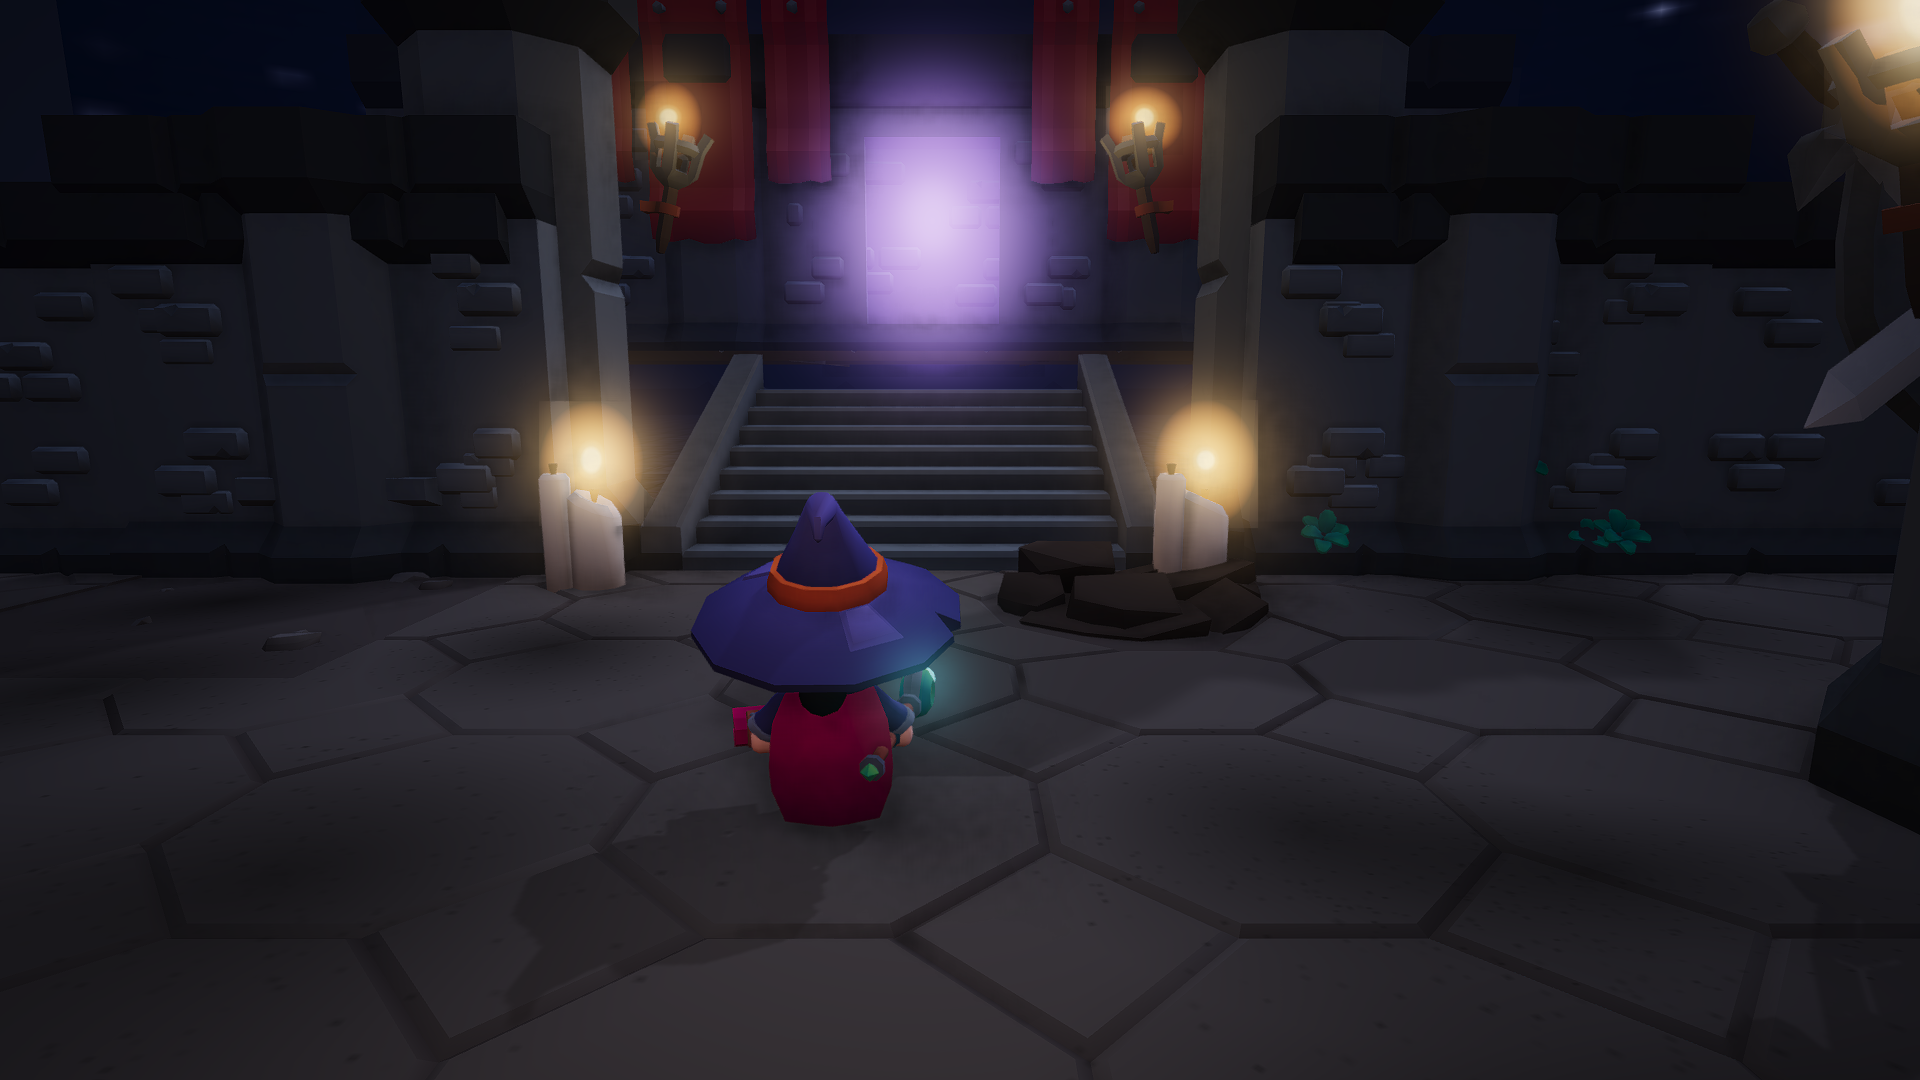
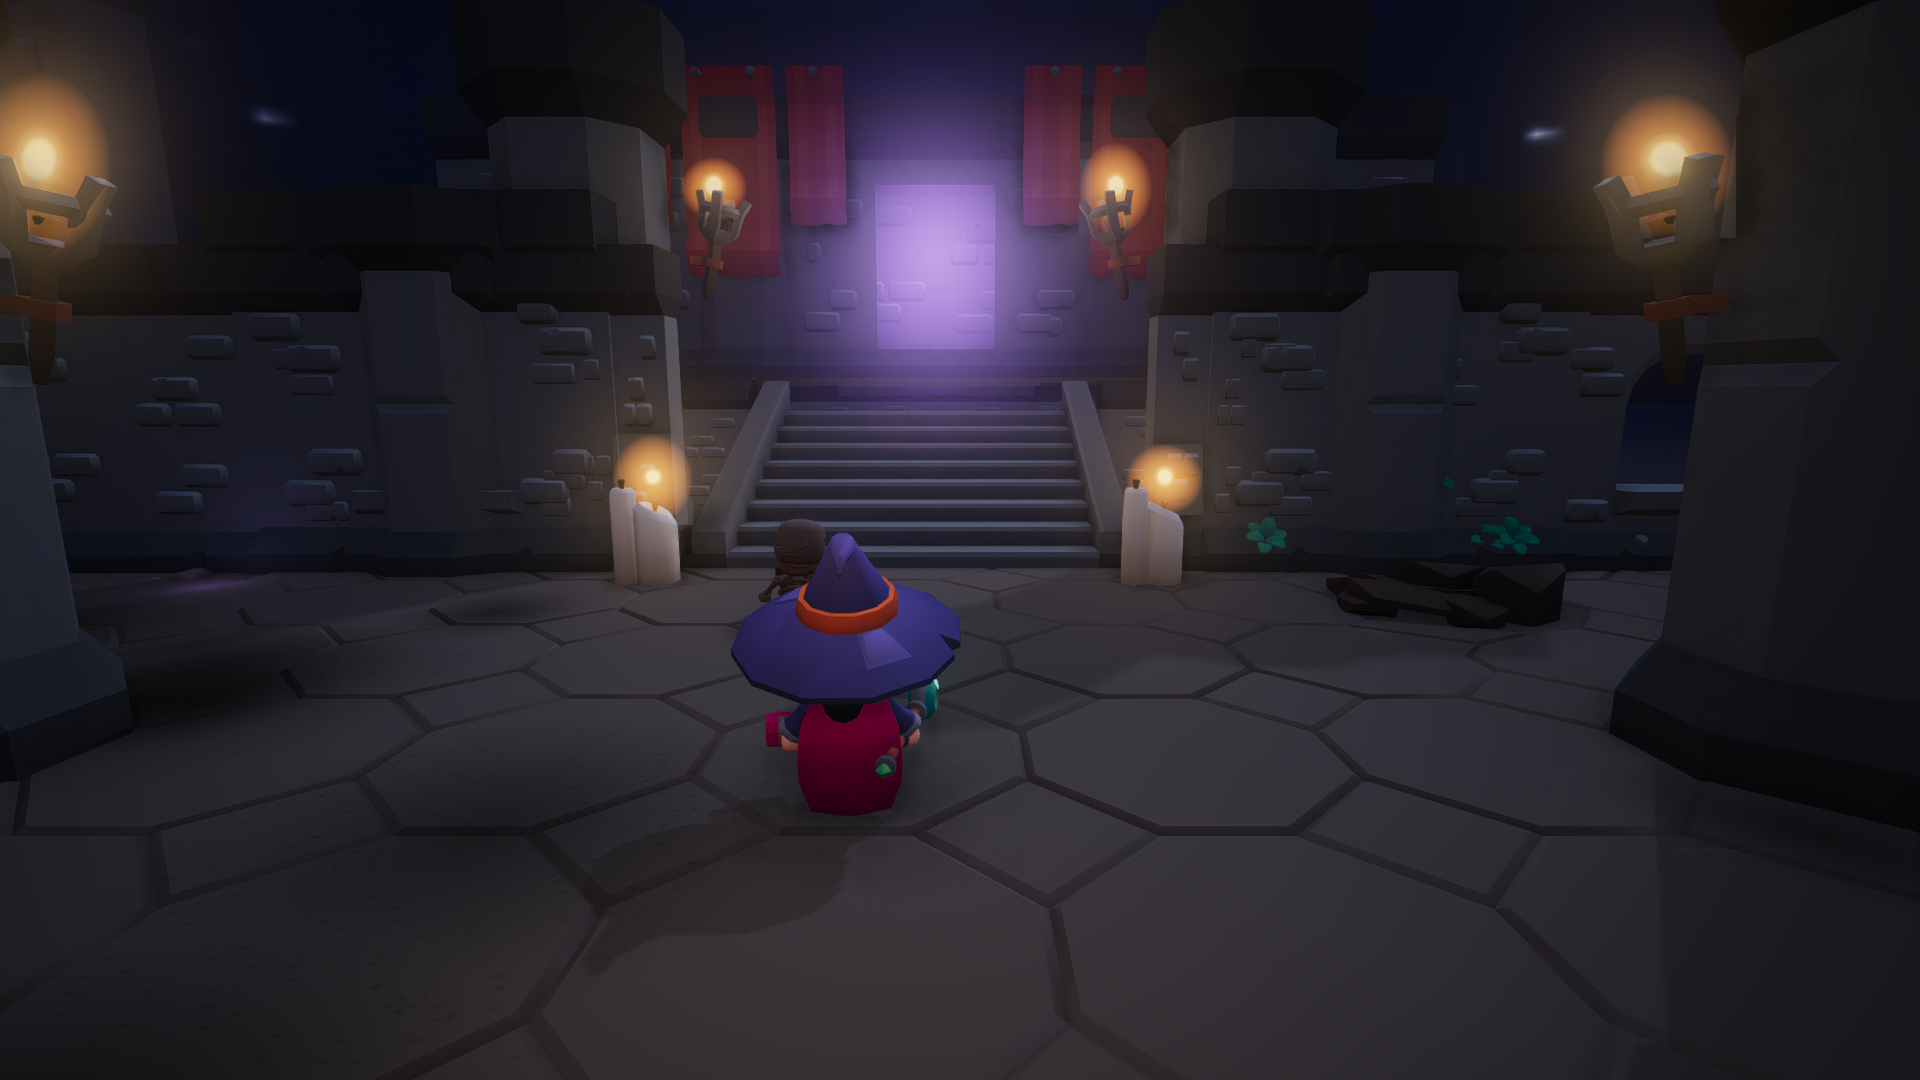
Solid plinth under the cathedral threshold
- Wall pieces under every edge of the raised threshold so nothing shows beneath it
- Fill the slots between the staircase and the perimeter wall
- Door pack spawns in front of the door instead of inside its wall

diff --git a/src/world/benchmark.ts b/src/world/benchmark.ts
@@ -108,6 +108,16 @@ export class BenchmarkScene extends World {
     p.push({ id: 'kit.wall_pillar', x: T * 1.2, z: topZ + T * 2 - 1, y: topY, scale: 2.5, collide: true });
     p.push({ id: 'kit.wall', x: -T * 2.2, z: topZ + T * 2 - 1, y: topY, rot: Math.PI, scale: 2.5, collide: true });
     p.push({ id: 'kit.wall', x: T * 2.2, z: topZ + T * 2 - 1, y: topY, rot: Math.PI, scale: 2.5, collide: true });
+    // plinth: walls under every edge of the threshold so it reads as a solid raised block, not a floating slab
+    const plinth: [number, number, number, number][] = [
+      [3.5 * stairScale[0] + 2.2, topZ, 0, 1.1], [-(3.5 * stairScale[0] + 2.2), topZ, 0, 1.1],
+      [T * 1.5, topZ + T * 0.5, Math.PI / 2, 1.5], [T * 1.5, topZ + T * 1.5, Math.PI / 2, 1.5],
+      [-T * 1.5, topZ + T * 0.5, -Math.PI / 2, 1.5], [-T * 1.5, topZ + T * 1.5, -Math.PI / 2, 1.5],
+      [-T, topZ + T * 2, Math.PI, 1.5], [0, topZ + T * 2, Math.PI, 1.5], [T, topZ + T * 2, Math.PI, 1.5],
+    ];
+    for (const [x, z, rot, sx] of plinth) p.push({ id: 'kit.wall', x, z, rot, scaleV: [sx, topY / 4, 1.5], collide: false });
+    // fill the slots between the staircase and the perimeter wall
+    for (const sx of [-1, 1]) p.push({ id: 'kit.wall', x: sx * (3.5 * stairScale[0] + 1.0), z: half, rot: Math.PI, scaleV: [0.5, S, S], collide: false });
     // banners on the door wall
     p.push({ id: 'kit.banner_triple_red', x: -T * 1.2, z: topZ + T * 2 - 1.9, y: topY + 2.5, rot: Math.PI, scale: 2.2 });
     p.push({ id: 'kit.banner_triple_red', x: T * 1.2, z: topZ + T * 2 - 1.9, y: topY + 2.5, rot: Math.PI, scale: 2.2 });

diff --git a/src/game.ts b/src/game.ts
@@ -150,7 +150,7 @@ export class Game {
     this.spawnTimer = 8;
     void (async () => {
       for (let i = 0; i < 12; i++) {
-        const at = new Vector3(dp.x + (Math.random() - 0.5) * 5, dp.y, dp.z + 1 + Math.random() * 1.5);
+        const at = new Vector3(dp.x + (Math.random() - 0.5) * 5, dp.y, dp.z - 1.5 + Math.random() * 1.5);
         await this.enemies.spawn(i % 5 === 4 ? 'wraith' : 'ghoul', at, i === 11);
       }
     })();
